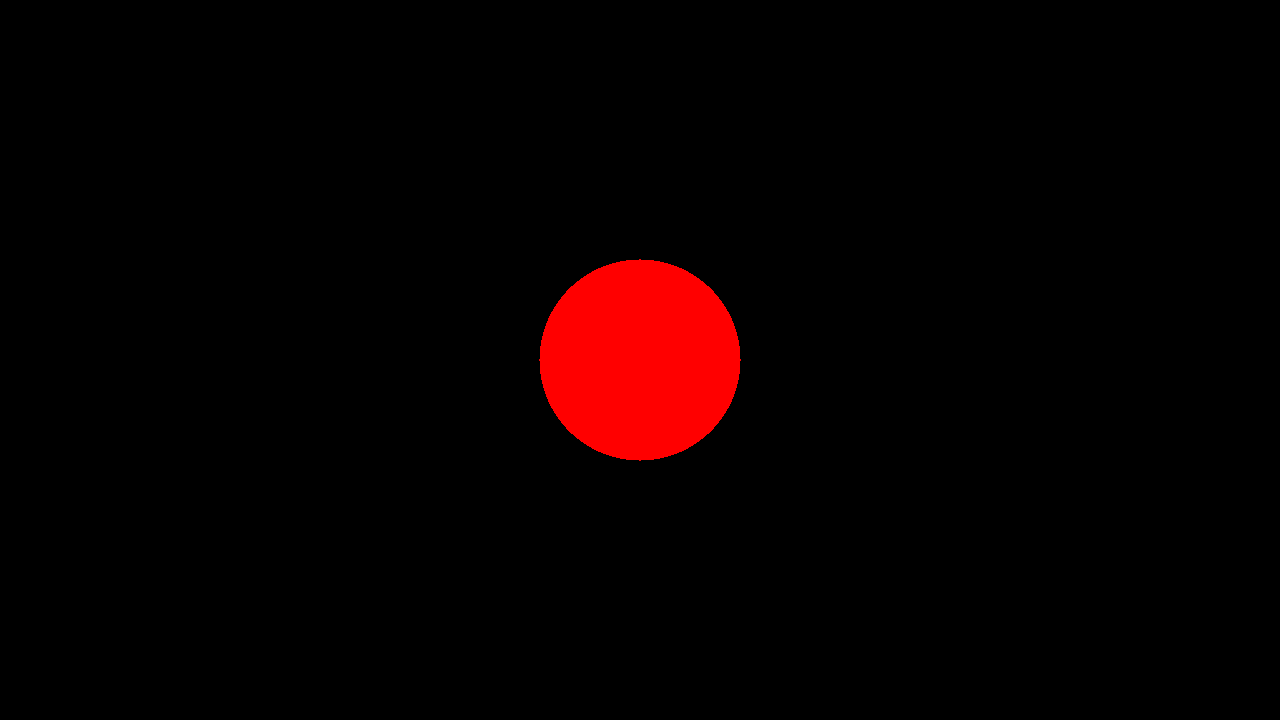
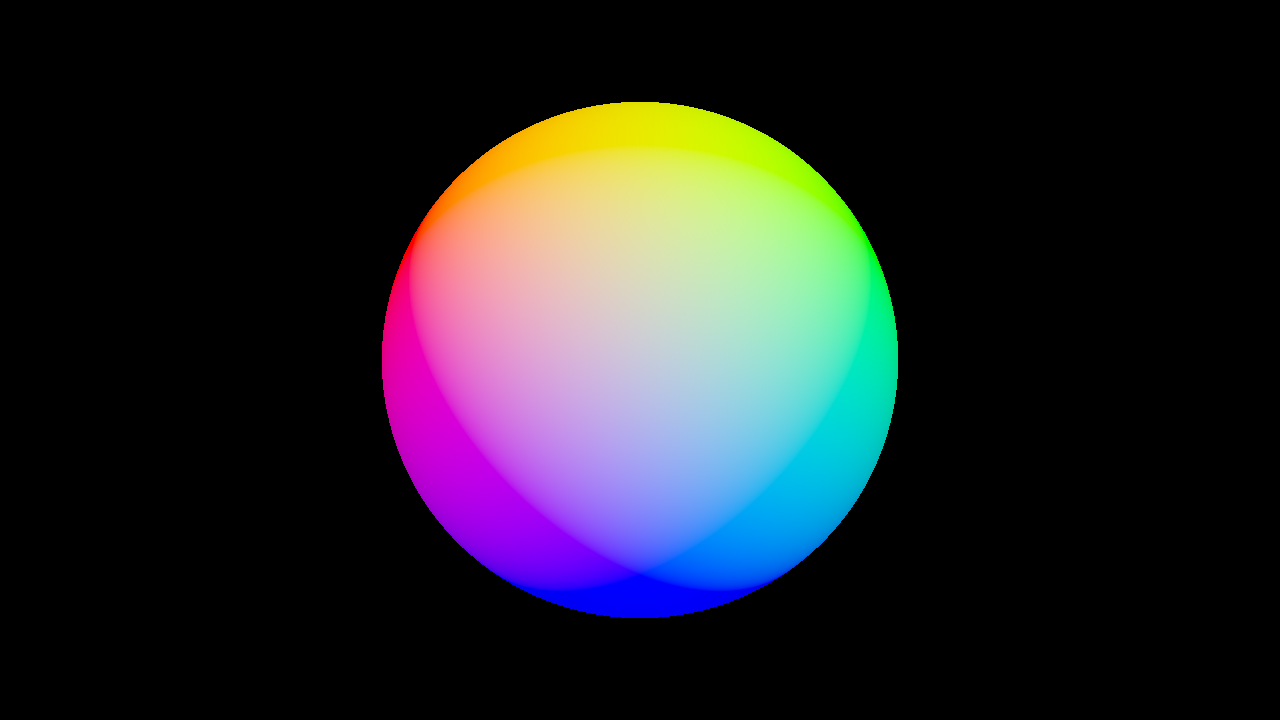
Fix render_sphere test
Since the renderer now has lights, the test had to be updated.

Changed region(s): [[0.2812, 0.1222, 0.7188, 0.8556]]

diff --git a/src/lib.rs b/src/lib.rs
@@ -45,7 +45,7 @@ mod tests {
 
         let mut scene = Scene::new();
 
-        scene.add(Sphere::new((0.0, 0.0, 2.0), 0.5));
+        scene.add(Sphere::new((0.0, 2.0, 0.0), 0.5));
 
         scene.render(&mut image);
 
